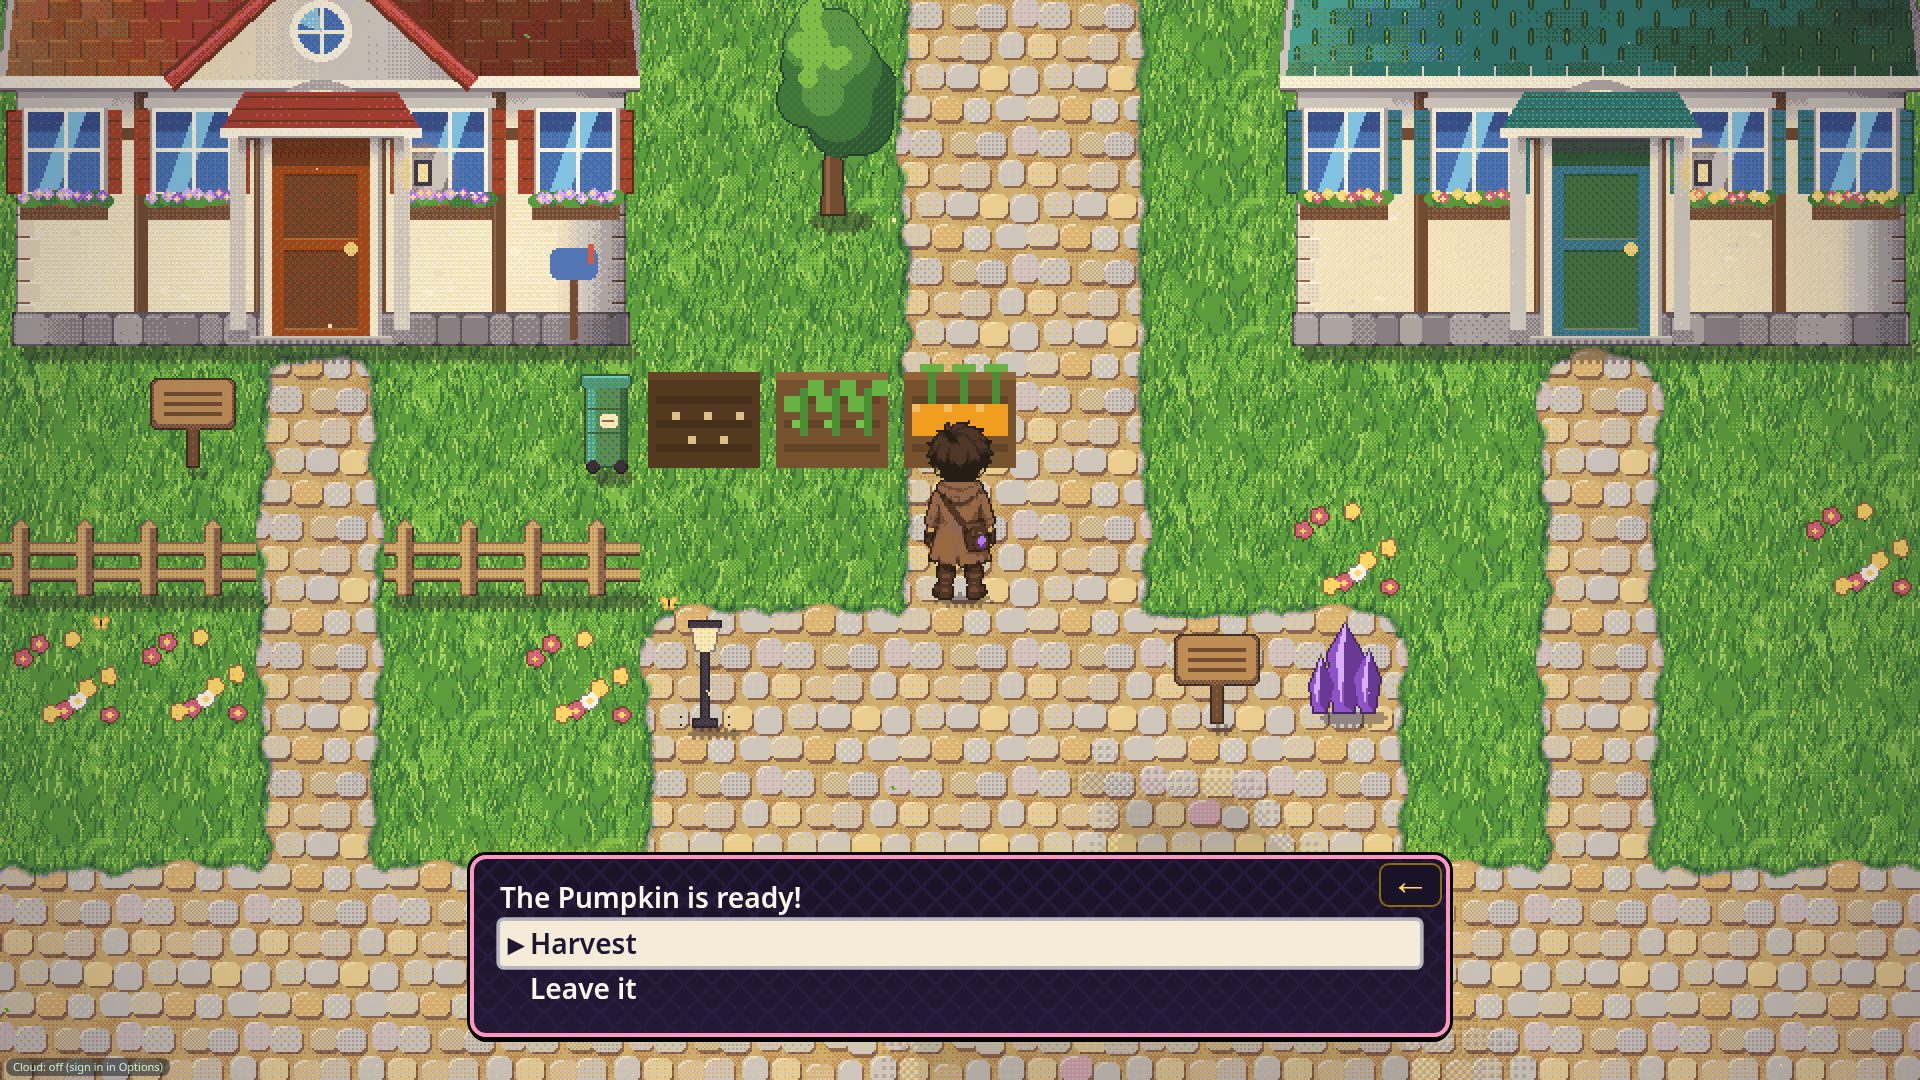
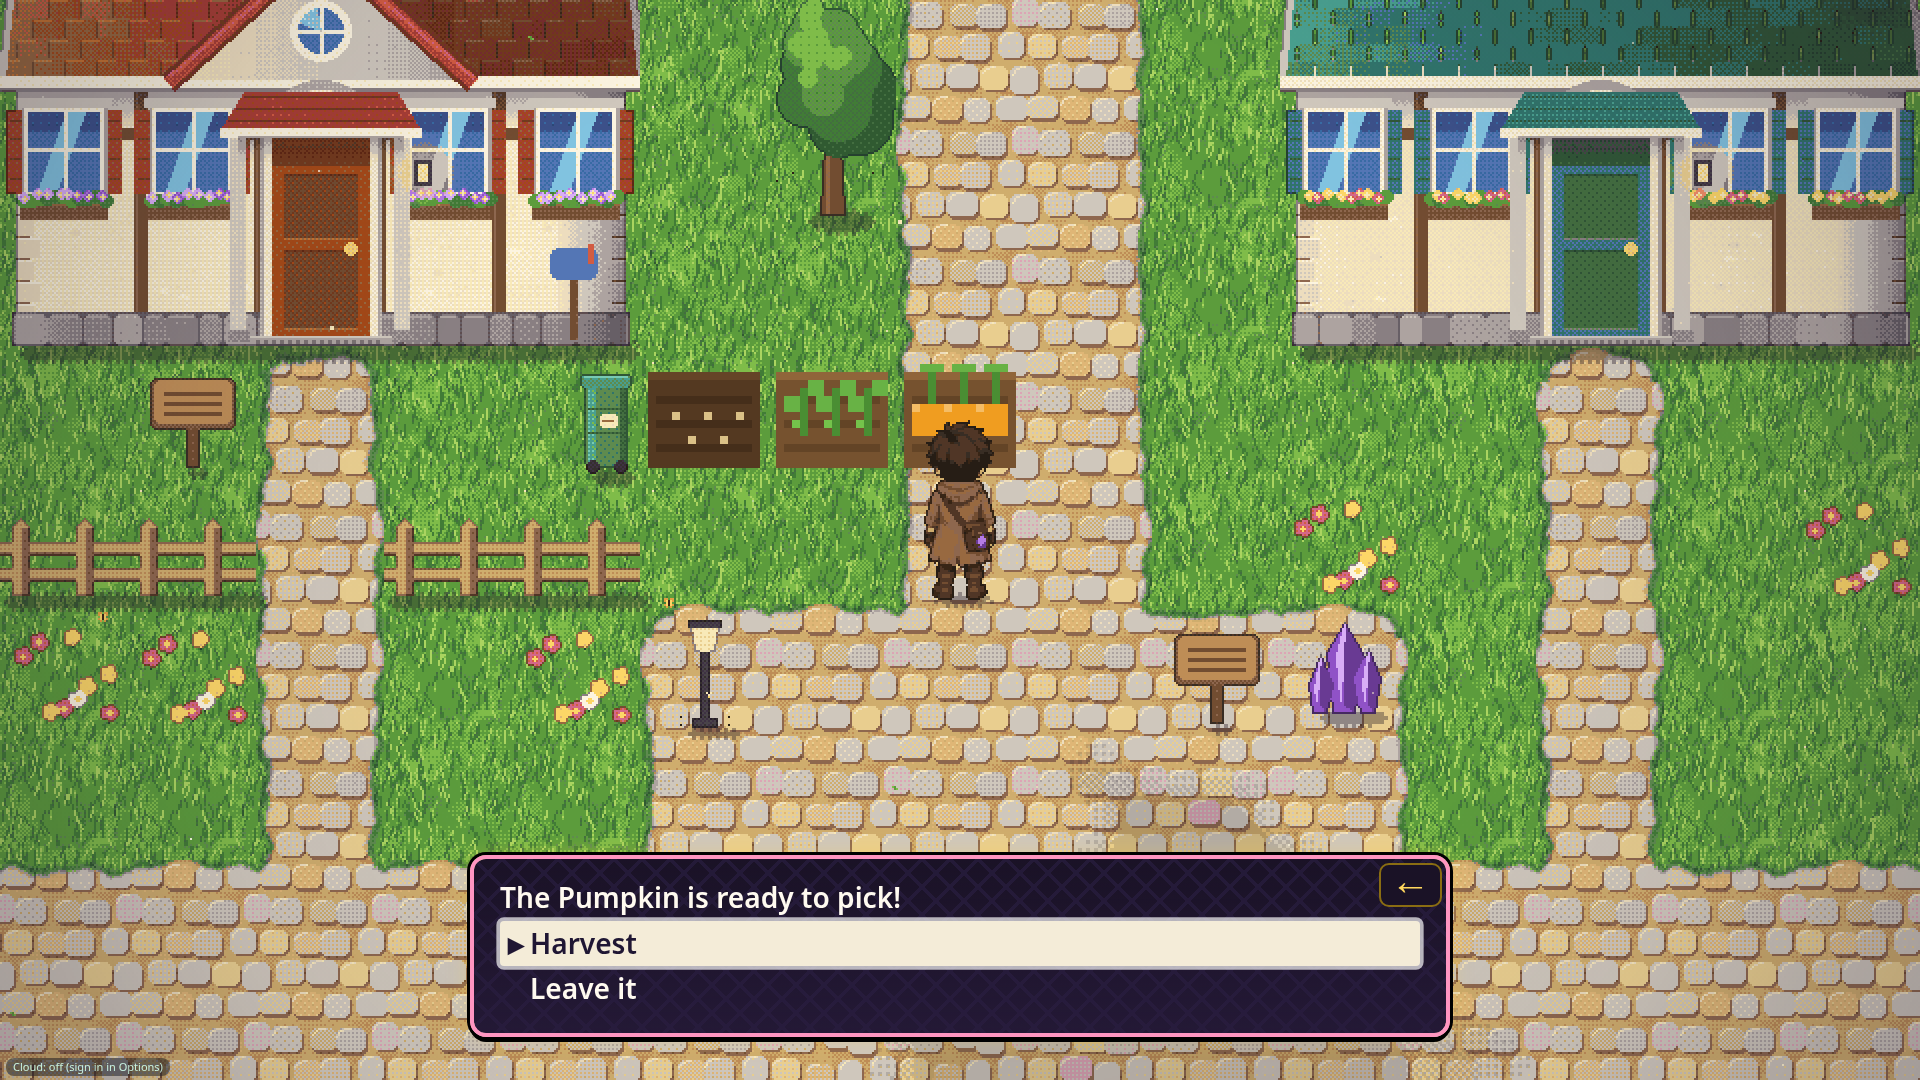
Merit shop: wire Text Bot final text (46 strings in garden/strings.js, 18 item names+descs in items.js); cspell words Sunroot/Glowbean/Drumleek; re-took merit_shop_v1 shots (desc wraps, 'Always in stock' fits on PC + phone, no layout change needed)

diff --git a/kilumen/src/garden/strings.js b/kilumen/src/garden/strings.js
@@ -1,52 +1,52 @@
-// Garden + merit shop text. ALL PLACEHOLDER (Coder, Oct 30 2026): Text Bot replaces these by id; requests in
+// Garden + merit shop text. Final text by Text Bot (data/textbot_merit_shop.json, Oct 30 2026); requests in
 // data/textbot_requests_merit_shop.md. Keep the ids stable; {tokens} are filled in by gt().
 export const GS = Object.freeze({
-  'merit.shop.title': 'Merit Counter',                                   // PLACEHOLDER
-  'merit.shop.clerk': 'Merit Clerk',                                     // PLACEHOLDER
-  'merit.shop.tab_today': "Today's shelf",                               // PLACEHOLDER
-  'merit.shop.tab_always': 'Always in',                                  // PLACEHOLDER
-  'merit.shop.points': '{points} merit',                                 // PLACEHOLDER
+  'merit.shop.title': 'Merit Counter',
+  'merit.shop.clerk': 'Merit Clerk',
+  'merit.shop.tab_today': "Today's shelf",
+  'merit.shop.tab_always': 'Always in stock',
+  'merit.shop.points': '{points} merit',
   'merit.shop.unit': '★',
-  'merit.shop.owned': 'Owned',                                           // PLACEHOLDER
-  'merit.shop.in_pack': 'In your pack: {n}',                             // PLACEHOLDER
-  'merit.shop.rotates': 'This shelf changes every day.',                 // PLACEHOLDER
-  'merit.shop.confirm': '{item} x{count} is {total} merit. Trade?',      // PLACEHOLDER
-  'merit.shop.confirm_yes': 'Trade',                                     // PLACEHOLDER
-  'merit.shop.confirm_no': 'Not yet',                                    // PLACEHOLDER
-  'merit.shop.bought': 'Here you go. Earned fair and square.',           // PLACEHOLDER
-  'merit.shop.short': 'You need {short} more merit for that.',           // PLACEHOLDER
-  'merit.shop.bag_full': "Your pack can't hold any more of those.",      // PLACEHOLDER
-  'merit.shop.already': 'You already have one of those.',                // PLACEHOLDER
-  'merit.shop.bye': 'Come back after your next event.',                  // PLACEHOLDER
-  'merit.shop.hint_tabs': "Today / Always",                              // PLACEHOLDER
-  'merit.shop.hint_pick': 'Pick',                                        // PLACEHOLDER
-  'merit.shop.hint_back': 'Done',                                        // PLACEHOLDER
-  'merit.shop.desc.watering_can': 'Waters one plot a day. Watered crops grow a stage overnight.',       // PLACEHOLDER
-  'merit.shop.desc.watering_can_merit': 'A prize can. A crop watered with it is ready the next day.',   // PLACEHOLDER
-  'merit.shop.desc.seeds': 'Plant in a soil plot. Ready in {days} watered days.',                     // PLACEHOLDER
-  'merit.earned': '+{pts} merit points! ({points} total)',                // PLACEHOLDER
-  'merit.announcer.ask': 'Here for the Games, or the merit counter?',    // PLACEHOLDER
-  'merit.announcer.games': 'The Games',                                  // PLACEHOLDER
-  'merit.announcer.shop': 'Merit counter',                               // PLACEHOLDER
-  'merit.announcer.leave': 'Just looking',                               // PLACEHOLDER
-  'garden.empty': "It's a soil plot. Something could grow here.",        // PLACEHOLDER
-  'garden.plant_ask': 'Plant something?',                                // PLACEHOLDER
-  'garden.plant_none': 'You have no seeds to plant.',                    // PLACEHOLDER
-  'garden.cancel': 'Leave it',                                           // PLACEHOLDER
-  'garden.planted': 'You planted the {crop} seeds.',                     // PLACEHOLDER
-  'garden.stage.seed': 'The {crop} seeds are in the soil.',              // PLACEHOLDER
-  'garden.stage.sprout': 'A little {crop} sprout is up.',                // PLACEHOLDER
-  'garden.stage.growing': 'The {crop} is coming along.',                 // PLACEHOLDER
-  'garden.water_ask': 'Water it?',                                       // PLACEHOLDER
-  'garden.water_yes': 'Water',                                           // PLACEHOLDER
-  'garden.watered': 'You watered the {crop}.',                           // PLACEHOLDER
-  'garden.watered_merit': 'You watered the {crop} with the merit can. It will be ready tomorrow.', // PLACEHOLDER
-  'garden.watered_done': 'The soil is already damp today.',              // PLACEHOLDER
-  'garden.no_can': 'The soil is dry. A watering can would help.',        // PLACEHOLDER
-  'garden.ready': 'The {crop} is ready!',                                // PLACEHOLDER
-  'garden.harvest_yes': 'Harvest',                                       // PLACEHOLDER
-  'garden.harvested': 'You harvested {n} {crop}!',                       // PLACEHOLDER
-  'garden.bag_full': "Your pack can't hold the {crop}.",                 // PLACEHOLDER
+  'merit.shop.owned': 'Owned',
+  'merit.shop.in_pack': 'In your pack: {n}',
+  'merit.shop.rotates': 'Fresh seeds on this shelf every day!',
+  'merit.shop.confirm': '{item} x{count} for {total} merit. Deal?',
+  'merit.shop.confirm_yes': 'Deal',
+  'merit.shop.confirm_no': 'Not yet',
+  'merit.shop.bought': 'All yours. Earned on the field!',
+  'merit.shop.short': "You're {short} merit short. One more event?",
+  'merit.shop.bag_full': "Your pack's full of those already.",
+  'merit.shop.already': 'You already have one. One is plenty!',
+  'merit.shop.bye': 'Go win us a cup. Then come back and spend!',
+  'merit.shop.hint_tabs': 'Today / Always',
+  'merit.shop.hint_pick': 'Choose',
+  'merit.shop.hint_back': 'Done',
+  'merit.shop.desc.watering_can': 'Waters one plot a day. Wet soil grows a crop one stage overnight.',
+  'merit.shop.desc.watering_can_merit': 'A prize can. Water a crop with it and pick it the very next day.',
+  'merit.shop.desc.seeds': 'Plant in a soil plot. Ready after {days} watered days.',
+  'merit.earned': '+{pts} merit! ({points} merit in all)',
+  'merit.announcer.ask': 'Here to compete, or here to spend your merit?',
+  'merit.announcer.games': 'The Games',
+  'merit.announcer.shop': 'Merit Counter',
+  'merit.announcer.leave': 'Just looking',
+  'garden.empty': 'A soil plot, dark and soft. Something could grow here.',
+  'garden.plant_ask': 'Plant something?',
+  'garden.plant_none': "You've got no seeds to plant.",
+  'garden.cancel': 'Leave it',
+  'garden.planted': 'You pressed the {crop} seeds into the soil.',
+  'garden.stage.seed': 'The {crop} seeds are tucked in the soil.',
+  'garden.stage.sprout': 'A tiny {crop} sprout is peeking up!',
+  'garden.stage.growing': 'The {crop} is coming along nicely.',
+  'garden.water_ask': 'Water it?',
+  'garden.water_yes': 'Water',
+  'garden.watered': 'You gave the {crop} a good soak.',
+  'garden.watered_merit': 'The prize can sparkles over the {crop}. Ready by tomorrow!',
+  'garden.watered_done': 'The soil is still damp. That will do for today.',
+  'garden.no_can': 'The soil is dry and dusty. A watering can would help.',
+  'garden.ready': 'The {crop} is ready to pick!',
+  'garden.harvest_yes': 'Harvest',
+  'garden.harvested': 'You harvested the {crop}! (x{n})',
+  'garden.bag_full': 'No room in your pack for the {crop}.',
 });
 /** Look up a string id and fill {tokens}. Unknown id -> the id itself (easy to spot). */
 export const gt = (id, vars = {}) => String(GS[id] ?? id).replace(/\{(\w+)\}/g, (_, k) => (vars[k] ?? `{${k}}`));

diff --git a/kilumen/src/systems/items.js b/kilumen/src/systems/items.js
@@ -73,25 +73,25 @@ const FIELD = {
   old_river_drawing: { pocket: 'key', field: null, key: true, earnedOnly: true, name: 'Old River Drawing', flag: 'sq_rested_done' }, // Where It Rested (sq_rested_done)
   reed_lamp: { pocket: 'key', field: null, key: true, earnedOnly: true, name: 'Reed Lamp' }, // Mirefen (Wenna's lamp quest)
   field_reading_sheet: { pocket: 'key', field: null, key: true, earnedOnly: true, name: 'Field Reading Sheet', flag: 'item_field_reading_sheet' }, // Lanternport page hand-off (story_beats §L); pays off at the summit camp
-  // Garden + merit shop (Oct 30 2026; src/garden/, src/sports/merit.js). PLACEHOLDER names (Text Bot: data/textbot_requests_merit_shop.md).
-  watering_can: { pocket: 'key', field: null, key: true, name: 'Watering Can' },
-  watering_can_merit: { pocket: 'key', field: null, key: true, name: 'Merit Watering Can' },
-  carrot_seeds: { pocket: 'gear', field: null, seed: 'carrot', name: 'Carrot Seeds' },
-  turnip_seeds: { pocket: 'gear', field: null, seed: 'turnip', name: 'Turnip Seeds' },
-  radish_seeds: { pocket: 'gear', field: null, seed: 'radish', name: 'Radish Seeds' },
-  tomato_seeds: { pocket: 'gear', field: null, seed: 'tomato', name: 'Tomato Seeds' },
-  pumpkin_seeds: { pocket: 'gear', field: null, seed: 'pumpkin', name: 'Pumpkin Seeds' },
-  sunroot_seeds: { pocket: 'gear', field: null, seed: 'sunroot', name: 'Sunroot Seeds' },
-  glowbean_seeds: { pocket: 'gear', field: null, seed: 'glowbean', name: 'Glowbean Seeds' },
-  drumleek_seeds: { pocket: 'gear', field: null, seed: 'drumleek', name: 'Drumleek Seeds' },
-  carrot: { pocket: 'feeds', field: null, crop: true, name: 'Carrot' },
-  turnip: { pocket: 'feeds', field: null, crop: true, name: 'Turnip' },
-  radish: { pocket: 'feeds', field: null, crop: true, name: 'Radish' },
-  tomato: { pocket: 'feeds', field: null, crop: true, name: 'Tomato' },
-  pumpkin: { pocket: 'feeds', field: null, crop: true, name: 'Pumpkin' },
-  sunroot: { pocket: 'feeds', field: null, crop: true, name: 'Sunroot' },
-  glowbean: { pocket: 'feeds', field: null, crop: true, name: 'Glowbean' },
-  drumleek: { pocket: 'feeds', field: null, crop: true, name: 'Drumleek' },
+  // Garden + merit shop (Oct 30 2026; src/garden/, src/sports/merit.js). Names/descs by Text Bot (data/textbot_merit_shop.json).
+  watering_can: { pocket: 'key', field: null, key: true, name: 'Watering Can', desc: 'A sturdy tin can. Waters one plot a day.' },
+  watering_can_merit: { pocket: 'key', field: null, key: true, name: "Champion's Can", desc: 'Gold-trimmed prize can. Crops it waters ripen overnight.' },
+  carrot_seeds: { pocket: 'gear', field: null, seed: 'carrot', name: 'Carrot Seeds', desc: 'Ready in 3 watered days.' },
+  turnip_seeds: { pocket: 'gear', field: null, seed: 'turnip', name: 'Turnip Seeds', desc: 'Ready in 2 watered days.' },
+  radish_seeds: { pocket: 'gear', field: null, seed: 'radish', name: 'Radish Seeds', desc: 'Ready in 2 watered days.' },
+  tomato_seeds: { pocket: 'gear', field: null, seed: 'tomato', name: 'Tomato Seeds', desc: 'Ready in 4 watered days.' },
+  pumpkin_seeds: { pocket: 'gear', field: null, seed: 'pumpkin', name: 'Pumpkin Seeds', desc: 'Ready in 5 watered days.' },
+  sunroot_seeds: { pocket: 'gear', field: null, seed: 'sunroot', name: 'Sunroot Seeds', desc: 'Ready in 4 watered days.' },
+  glowbean_seeds: { pocket: 'gear', field: null, seed: 'glowbean', name: 'Glowbean Seeds', desc: 'Ready in 3 watered days.' },
+  drumleek_seeds: { pocket: 'gear', field: null, seed: 'drumleek', name: 'Drumleek Seeds', desc: 'Ready in 5 watered days.' },
+  carrot: { pocket: 'feeds', field: null, crop: true, name: 'Carrot', desc: 'Crunchy and sweet, fresh from the soil.' },
+  turnip: { pocket: 'feeds', field: null, crop: true, name: 'Turnip', desc: 'A round white turnip. Good in stew.' },
+  radish: { pocket: 'feeds', field: null, crop: true, name: 'Radish', desc: 'Small, red, with a spicy bite.' },
+  tomato: { pocket: 'feeds', field: null, crop: true, name: 'Tomato', desc: 'Plump and red. Warm from the sun.' },
+  pumpkin: { pocket: 'feeds', field: null, crop: true, name: 'Pumpkin', desc: 'A big orange pumpkin. Heavy!' },
+  sunroot: { pocket: 'feeds', field: null, crop: true, name: 'Sunroot', desc: 'A golden root that stays warm, like it held on to the sun.' },
+  glowbean: { pocket: 'feeds', field: null, crop: true, name: 'Glowbean', desc: 'A pod of beans that glow faintly at night.' },
+  drumleek: { pocket: 'feeds', field: null, crop: true, name: 'Drumleek', desc: 'A tall, thick leek. It goes "thunk" when you knock it.' },
 };
 /** Text Bot keys for the region 5-6 items: [name path, desc path] in overworld_lines.json. */
 export const R5_R6_ITEM_TEXT = {
